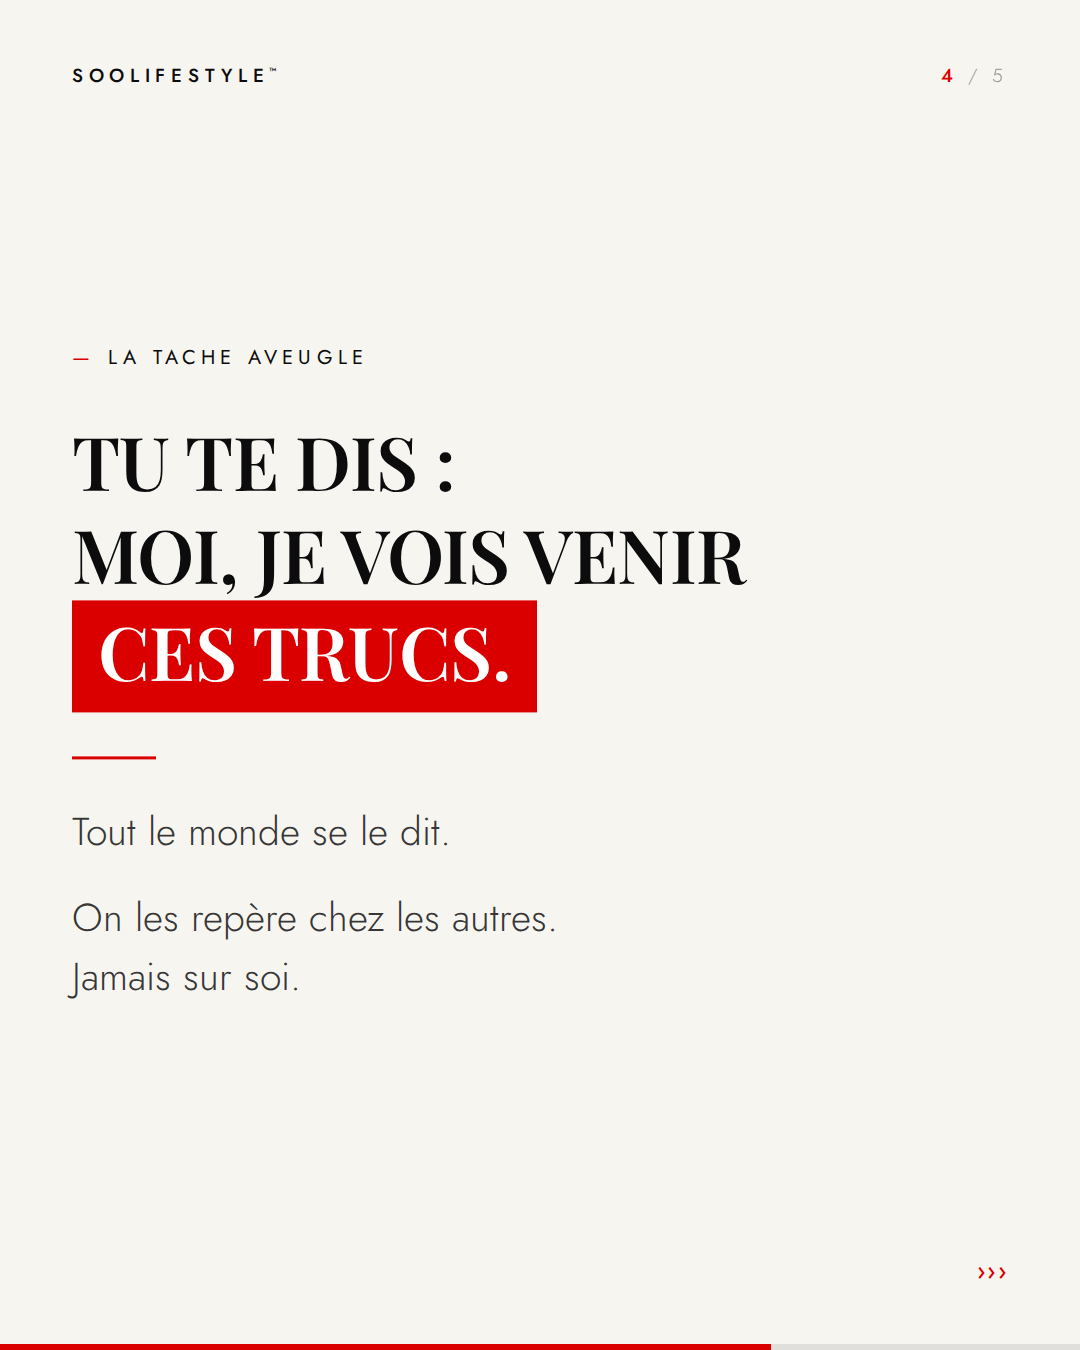
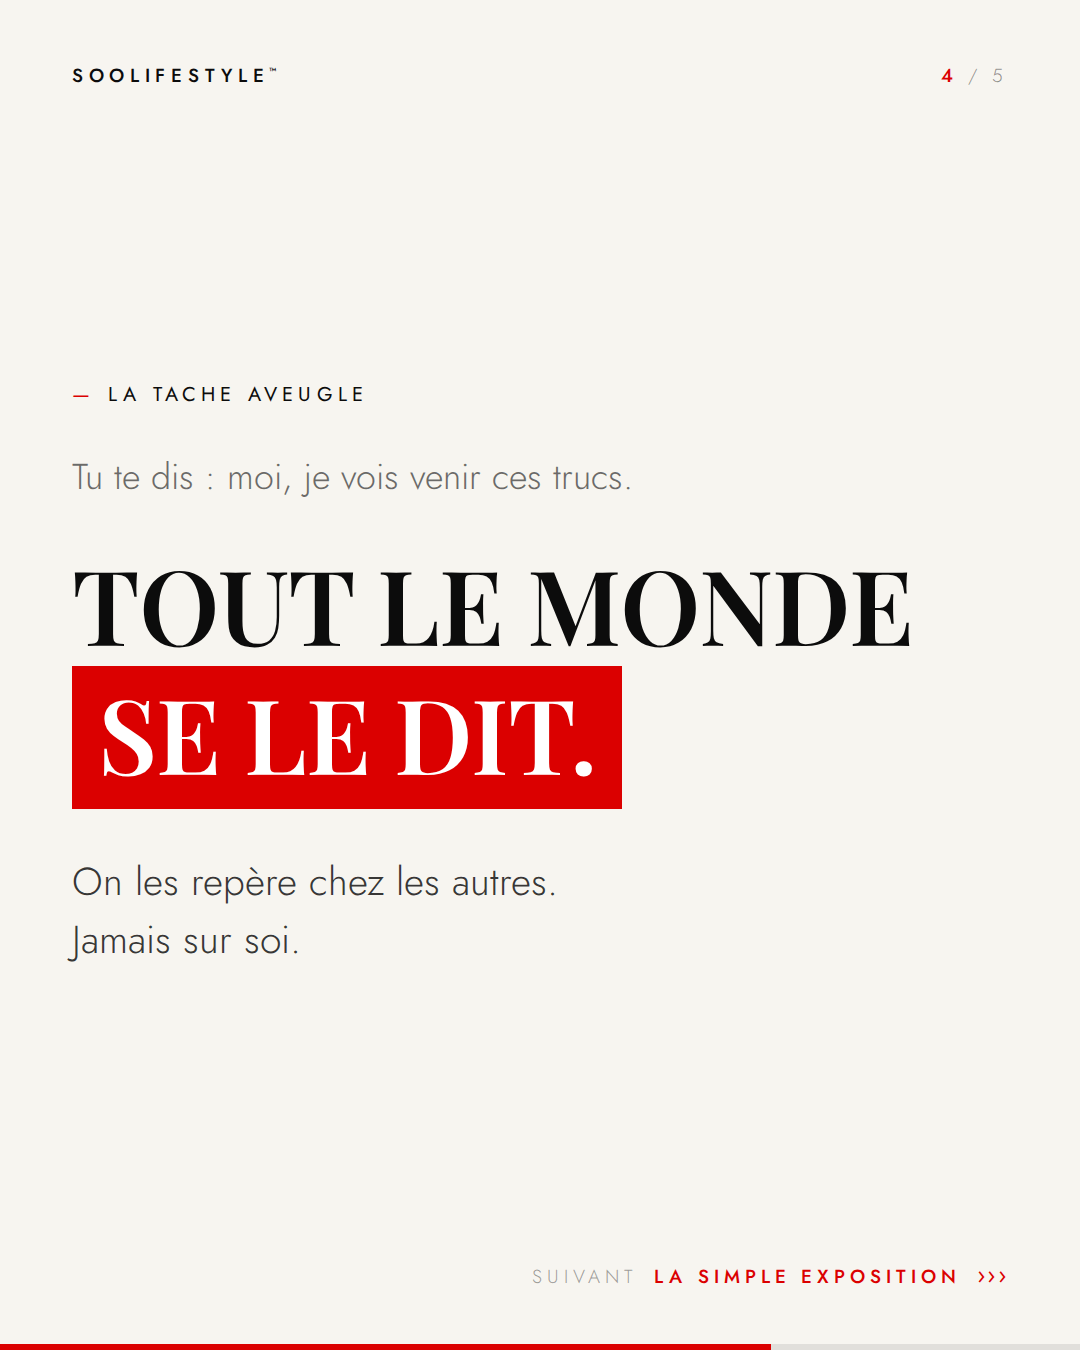
Interieur du carrousel : concu pour la retention, pas pour la lecture
Les slides precedentes etaient lisibles mais fermees : chacune se
resolvait, rien ne tirait vers la suivante. Trois leviers.

1. Trois rythmes alternes (rythmes.js) au lieu d'un gabarit unique.
   pose = on explique. claque = une phrase enorme, presque rien a lire,
   le swipe suivant est gratuit. bascule = on explique puis une phrase
   retourne tout en capitales rouges.
   Le miroir : pose, bascule, pose, claque, bascule.

2. Chaque slide annonce la suivante. La fleche du bas devient
   "SUIVANT . LA BOUCLE OUVERTE >>>". On ne swipe plus vers du vide
   mais vers un nom : une boucle ouverte par slide.

3. L'accroche grossit de 74 a 88px au fil des mecanismes. Le carrousel
   accelere sans le dire.

Slide finale : ajout d'un bloc DEMAIN qui annonce le sujet du prochain
carrousel. C'est lui qui fait l'abonnement, pas le bouton — "abonne-toi"
demande un service, "demain, pourquoi tu dis oui en pensant non" donne
une raison.

Claude-Session: https://claude.ai/code/session_01NxfN7rJ7DAKtxmihPtfgqw

diff --git a/instagram/carrousel-le-miroir/da.js b/instagram/carrousel-le-miroir/da.js
@@ -75,6 +75,34 @@ const CSS = `${FONTS}
   .dark .body{ color:rgba(247,245,240,.80); }
   .body + .body{ margin-top:28px; }
 
+  /* ── la relance : on swipe vers un nom, pas vers du vide ── */
+  .m-relance{ bottom:58px; right:var(--pad); display:flex; align-items:baseline; gap:16px;
+              font-size:19px; letter-spacing:.26em; }
+  .m-relance i{ font-style:normal; color:rgba(12,12,12,.40); font-weight:300; }
+  .dark .m-relance i{ color:rgba(247,245,240,.40); }
+  .m-relance b{ font-weight:500; color:var(--red); }
+  .m-relance s{ text-decoration:none; color:var(--red); font-size:24px; letter-spacing:.1em; }
+
+  /* ── la claque : une ligne, énorme, rien autour ── */
+  .setup{ font-family:'Sans',sans-serif; font-weight:300; font-size:36px; line-height:1.4;
+          color:rgba(12,12,12,.60); margin-bottom:40px; }
+  .dark .setup{ color:rgba(247,245,240,.55); }
+  .huge{ font-family:'Display',Georgia,serif; font-weight:600; text-transform:uppercase;
+         line-height:1.2; letter-spacing:-.01em; }
+
+  /* ── la bascule : la phrase qui retourne, en capitales rouges ── */
+  .payoff{ font-family:'Display',Georgia,serif; font-weight:600; text-transform:uppercase;
+           font-size:56px; line-height:1.14; letter-spacing:-.008em;
+           color:var(--red); margin-top:44px; }
+
+  /* ── demain : la vraie raison de s'abonner ── */
+  .demain{ margin-top:48px; padding-left:28px; border-left:3px solid var(--red); }
+  .demain i{ display:block; font-style:normal; font-family:'Sans',sans-serif; font-weight:500;
+             font-size:19px; letter-spacing:.3em; text-transform:uppercase; color:var(--red);
+             margin-bottom:16px; }
+  .demain span{ font-family:'Display',Georgia,serif; font-weight:500; font-style:italic;
+                font-size:46px; line-height:1.24; }
+
   .cta{ display:inline-flex; align-items:center; gap:22px; background:var(--red);
         color:#fff; padding:26px 44px; margin-top:52px;
         font-family:'Sans',sans-serif; font-weight:500; font-size:24px;
@@ -93,11 +121,20 @@ const chipLines = (lines, hi, chipStyle = '') =>
     .join('<br>');
 
 // `tag` : ce qui s'affiche en haut à droite. `next` : la flèche, sauf en fin.
-const furniture = ({ tag, fill, next = true }) => `
+// `next` : true pour la flèche seule (couverture),
+// une chaîne pour annoncer ce qui vient — c'est ça qui fait swiper,
+// false pour la dernière slide, où il n'y a plus rien après.
+const furniture = ({ tag, fill, next = true }) => {
+  let bas = '';
+  if (typeof next === 'string')
+    bas = `<div class="m m-relance"><i>Suivant</i><b>${next}</b><s>&rsaquo;&rsaquo;&rsaquo;</s></div>`;
+  else if (next) bas = '<div class="m m-next">&rsaquo;&rsaquo;&rsaquo;</div>';
+  return `
   <div class="m m-brand">Soolifestyle<sup>&#8482;</sup></div>
   <div class="m m-tag">${tag}</div>
-  ${next ? '<div class="m m-next">&rsaquo;&rsaquo;&rsaquo;</div>' : ''}
+  ${bas}
   <div class="bar"><i style="width:${fill}px"></i></div>`;
+};
 
 // La jauge : la part du carrousel déjà parcourue.
 const fill = (i, total) => Math.round((i / total) * TOKENS.w);

diff --git a/instagram/carrousel-le-miroir/build-carrousel.js b/instagram/carrousel-le-miroir/build-carrousel.js
@@ -5,6 +5,7 @@ const path = require('path');
 const { chromium } = require('/opt/node22/lib/node_modules/playwright');
 const DA = require('./da');
 const COVERS = require('./layouts-couverture');
+const RYTHMES = require('./rythmes');
 
 const DIR = __dirname;
 const name = process.argv[2] || 'le-miroir';
@@ -14,30 +15,26 @@ const OUT = path.join(DIR, 'export', c.id);
 const TOTAL = 1 + c.slides.length + 1; // couverture + mécanismes + CTA
 const N = c.slides.length;
 
-/* ── la slide-mécanisme : une seule forme, répétée ──
-   étiquette rouge, accroche en capitales dont une ligne surlignée,
-   filet, corps en sans léger. Fer à gauche : le corps se lit vite. */
+/* ── une slide-mécanisme : son rythme, et la promesse de la suivante ── */
 const mechanism = (s, i) => `
   <div class="sl" id="s${i + 2}">
-    <div class="wrap">
-      <div class="label"><em>&mdash;</em>${s.label}</div>
-      <div class="title" style="font-size:${s.size}px">${DA.chipLines(s.lines, s.hi)}</div>
-      <div class="hr"></div>
-      ${s.body.map((p) => `<div class="body">${p.join('<br>')}</div>`).join('')}
-    </div>
+    ${RYTHMES[s.rythme](s)}
     ${DA.furniture({
       tag: `<b>${i + 1}</b> / ${N}`,
       fill: DA.fill(i + 2, TOTAL),
+      next: s.next,
     })}
   </div>`;
 
-/* ── la slide finale : fond noir profond, et le seul bouton du carrousel ── */
+/* ── la slide finale : noir profond, et une raison de s'abonner
+      qui n'est pas « abonne-toi » mais ce qu'il y a demain ── */
 const outro = (o) => `
   <div class="sl dark" id="s${TOTAL}">
     <div class="wrap">
       <div class="title" style="font-size:${o.size}px">${DA.chipLines(o.lines, o.hi)}</div>
       <div class="hr"></div>
       ${o.body.map((p) => `<div class="body">${p.join('<br>')}</div>`).join('')}
+      <div class="demain"><i>${o.demain.label}</i><span>${o.demain.text}</span></div>
       <div><span class="cta">${o.cta} <span>&rarr;</span></span></div>
     </div>
     ${DA.furniture({ tag: c.tag, fill: DA.TOKENS.w, next: false })}

diff --git a/instagram/carrousel-le-miroir/rythmes.js b/instagram/carrousel-le-miroir/rythmes.js
@@ -1,0 +1,44 @@
+// LES RYTHMES — l'intérieur du carrousel.
+//
+// Le problème n'est pas d'être lisible, c'est d'être quitté.
+// Cinq slides construites pareil, c'est cinq fois la même charge de lecture :
+// l'œil s'installe, puis décroche. Trois rythmes, alternés, tiennent le pouce.
+//
+//   pose     lecture normale — on explique
+//   claque   une ligne, énorme, presque rien à lire — l'œil souffle, le swipe est gratuit
+//   bascule  on explique, puis une phrase retourne tout en capitales rouges
+const DA = require('./da');
+
+const label = (s) => `<div class="label"><em>&mdash;</em>${s.label}</div>`;
+const body = (s) =>
+  (s.body || []).map((p) => `<div class="body">${p.join('<br>')}</div>`).join('');
+
+module.exports = {
+  // on pose le mécanisme et on l'explique
+  pose: (s) => `
+    <div class="wrap">
+      ${label(s)}
+      <div class="title" style="font-size:${s.size}px">${DA.chipLines(s.lines, s.hi)}</div>
+      <div class="hr"></div>
+      ${body(s)}
+    </div>`,
+
+  // la respiration. Une phrase, rien d'autre. On la lit sans effort, on swipe.
+  claque: (s) => `
+    <div class="wrap">
+      ${label(s)}
+      <div class="setup">${s.setup}</div>
+      <div class="huge" style="font-size:${s.size}px">${DA.chipLines(s.lines, s.hi)}</div>
+      ${s.close ? `<div class="body" style="margin-top:44px">${s.close.join('<br>')}</div>` : ''}
+    </div>`,
+
+  // on explique, puis la dernière phrase retourne la situation
+  bascule: (s) => `
+    <div class="wrap">
+      ${label(s)}
+      <div class="title" style="font-size:${s.size}px">${DA.chipLines(s.lines, s.hi)}</div>
+      <div class="hr"></div>
+      ${body(s)}
+      <div class="payoff">${s.payoff.join('<br>')}</div>
+    </div>`,
+};

diff --git a/instagram/carrousel-le-miroir/SYSTEME.md b/instagram/carrousel-le-miroir/SYSTEME.md
@@ -98,35 +98,62 @@ qui comptent.
 
 Sept slides : une couverture, cinq mécanismes, un CTA.
 
-La couverture a six gabarits parce qu'elle doit arrêter le pouce.
-**L'intérieur n'en a qu'un.** Un lecteur qui swipe ne doit pas réapprendre
-la mise en page à chaque slide — il doit lire. La variation se joue entre
-carrousels, pas à l'intérieur d'un carrousel.
+Le problème de l'intérieur n'est pas d'être lisible. **C'est d'être quitté.**
+Cinq slides construites pareil, c'est cinq fois la même charge de lecture :
+l'œil s'installe, puis décroche. Trois leviers tiennent le pouce.
 
-### La slide-mécanisme (2 à 6)
+### 1. Trois rythmes, alternés
+
+| Rythme | Ce qu'il fait | Charge de lecture |
+|---|---|---|
+| `pose` | on pose le mécanisme et on l'explique | normale |
+| `claque` | une phrase, énorme, presque rien autour | quasi nulle |
+| `bascule` | on explique, puis une phrase retourne tout en capitales rouges | normale, fin brutale |
+
+La `claque` est la respiration. Elle ne coûte rien à lire, donc le swipe
+suivant est gratuit. Place-la au milieu, jamais en deuxième ni en dernière.
+
+Alternance du carrousel « Le miroir » : pose · bascule · pose · **claque** · bascule.
+
+### 2. Chaque slide annonce la suivante
+
+En bas à droite, à la place de la flèche : `SUIVANT · LA BOUCLE OUVERTE ›››`.
+
+On ne swipe pas vers du vide, on swipe vers un nom. C'est une boucle ouverte
+par slide — le mécanisme même que le carrousel décrit.
+La dernière mécanique annonce `LA DÉMONSTRATION` : le CTA devient un rendez-vous,
+pas une interruption.
+
+### 3. L'accroche grossit
+
+74 px sur le premier mécanisme, 88 px sur le dernier. Le carrousel accélère
+sans le dire. Personne ne le remarque, tout le monde le sent.
+
+### La structure d'une slide-mécanisme
 
 ```
 — NOM DU MÉCANISME        Jost, tiret rouge, capitales espacées
-ACCROCHE EN CAPITALES     Playfair 74-78px, deux ou trois lignes,
-                          dont UNE surlignée en rouge
+ACCROCHE EN CAPITALES     Playfair, dont UNE ligne surlignée en rouge
 ▬                         filet rouge
-corps en Jost 300         39px, deux blocs de une à trois lignes
+corps en Jost 300         une à trois lignes courtes
+[LA BASCULE]              capitales rouges, seulement sur le rythme bascule
+                          SUIVANT · <le prochain> ›››
 ```
 
-Fer à gauche, bloc centré verticalement. Le surligneur est le fil rouge :
-il est sur la couverture, il est sur chaque mécanisme.
-
-Compteur `1/5` → `5/5` en haut à droite, chiffre courant en rouge.
-La jauge du bas avance de `i/7` à chaque slide.
+Compteur `1/5` → `5/5` en haut à droite. La jauge du bas avance de `i/7`.
 
 ### La slide finale (7)
 
-**Fond noir profond `#080808`. Toujours.** C'est la seule slide sombre du
-carrousel — la rupture signale la fin autant que le texte.
+**Fond noir profond `#080808`. Toujours.** Seule slide sombre du carrousel :
+la rupture signale la fin autant que le texte.
 
-Pas de surligneur sur cette slide. Le bouton rouge est la seule masse
-rouge après le filet : sur un CTA, c'est lui qui doit gagner.
-Pas de `›››` non plus : il n'y a plus rien après.
+Pas de surligneur — le bouton rouge doit être la seule masse rouge.
+Pas de flèche — il n'y a plus rien après.
+
+Et surtout : **un bloc `DEMAIN`** qui annonce le sujet du prochain carrousel,
+en italique, derrière un filet rouge vertical. C'est lui qui fait l'abonnement,
+pas le bouton. « Abonne-toi » demande un service ; « demain, pourquoi tu dis oui
+en pensant non » donne une raison.
 
 En haut à droite, la catégorie revient à la place du compteur.
 Le carrousel se referme comme il s'est ouvert.
@@ -153,7 +180,8 @@ Pour tester des couvertures en série sans écrire les carrousels entiers,
 |---|---|
 | `da.js` | **les invariants.** Palette, typo, habillage, jauge. Un seul endroit. |
 | `layouts-couverture.js` | les six gabarits de tension de la couverture |
-| `build-carrousel.js` | la slide-mécanisme, la slide finale, le rendu |
+| `rythmes.js` | les trois rythmes de l'intérieur |
+| `build-carrousel.js` | la slide finale et le rendu |
 | `carrousels/*.json` | le texte d'un carrousel |
 | `posts.json` | des couvertures seules, pour tester le feed |
 
